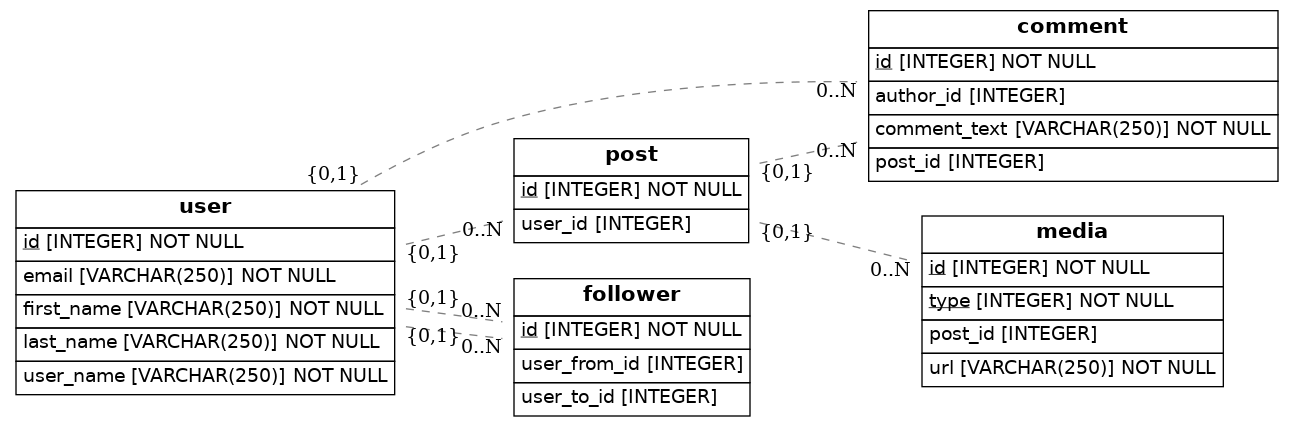
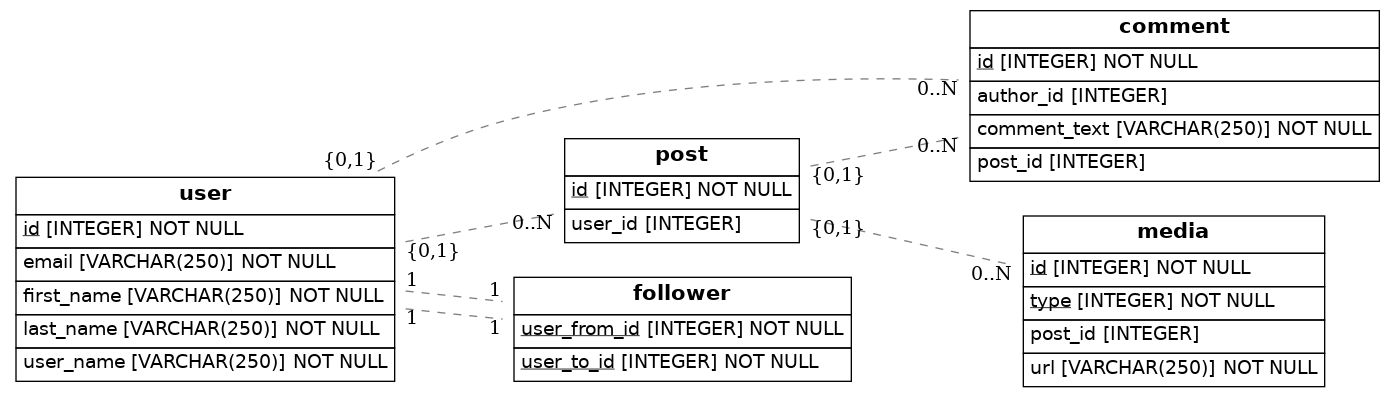
muchos a muchos

diff --git a/src/models.py b/src/models.py
@@ -1,11 +1,16 @@
 import os
 import sys
-from sqlalchemy import Column, ForeignKey, Integer, String
+from sqlalchemy import Column, ForeignKey, Integer, String, Table
 from sqlalchemy.orm import relationship, declarative_base
 from sqlalchemy import create_engine
 from eralchemy2 import render_er
 
 Base = declarative_base()
+
+tags = Table('User-Follower',
+    Column('user_id', Integer, ForeignKey('user.id'), primary_key=True),
+    Column('follower_id', Integer, ForeignKey('user.id'), primary_key=True)
+)
 
 class User(Base):
     __tablename__ = 'user'
@@ -48,7 +53,7 @@ class Follower(Base):
     __tablename__ = 'follower'
     # Here we define columns for the table address.
     # Notice that each column is also a normal Python instance attribute.
-    id= Column(Integer, primary_key=True)
+    # id= Column(Integer, primary_key=True)
     user_from_id = Column(Integer, ForeignKey('user.id'))
     user_to_id = Column(Integer, ForeignKey('user.id'))
     
